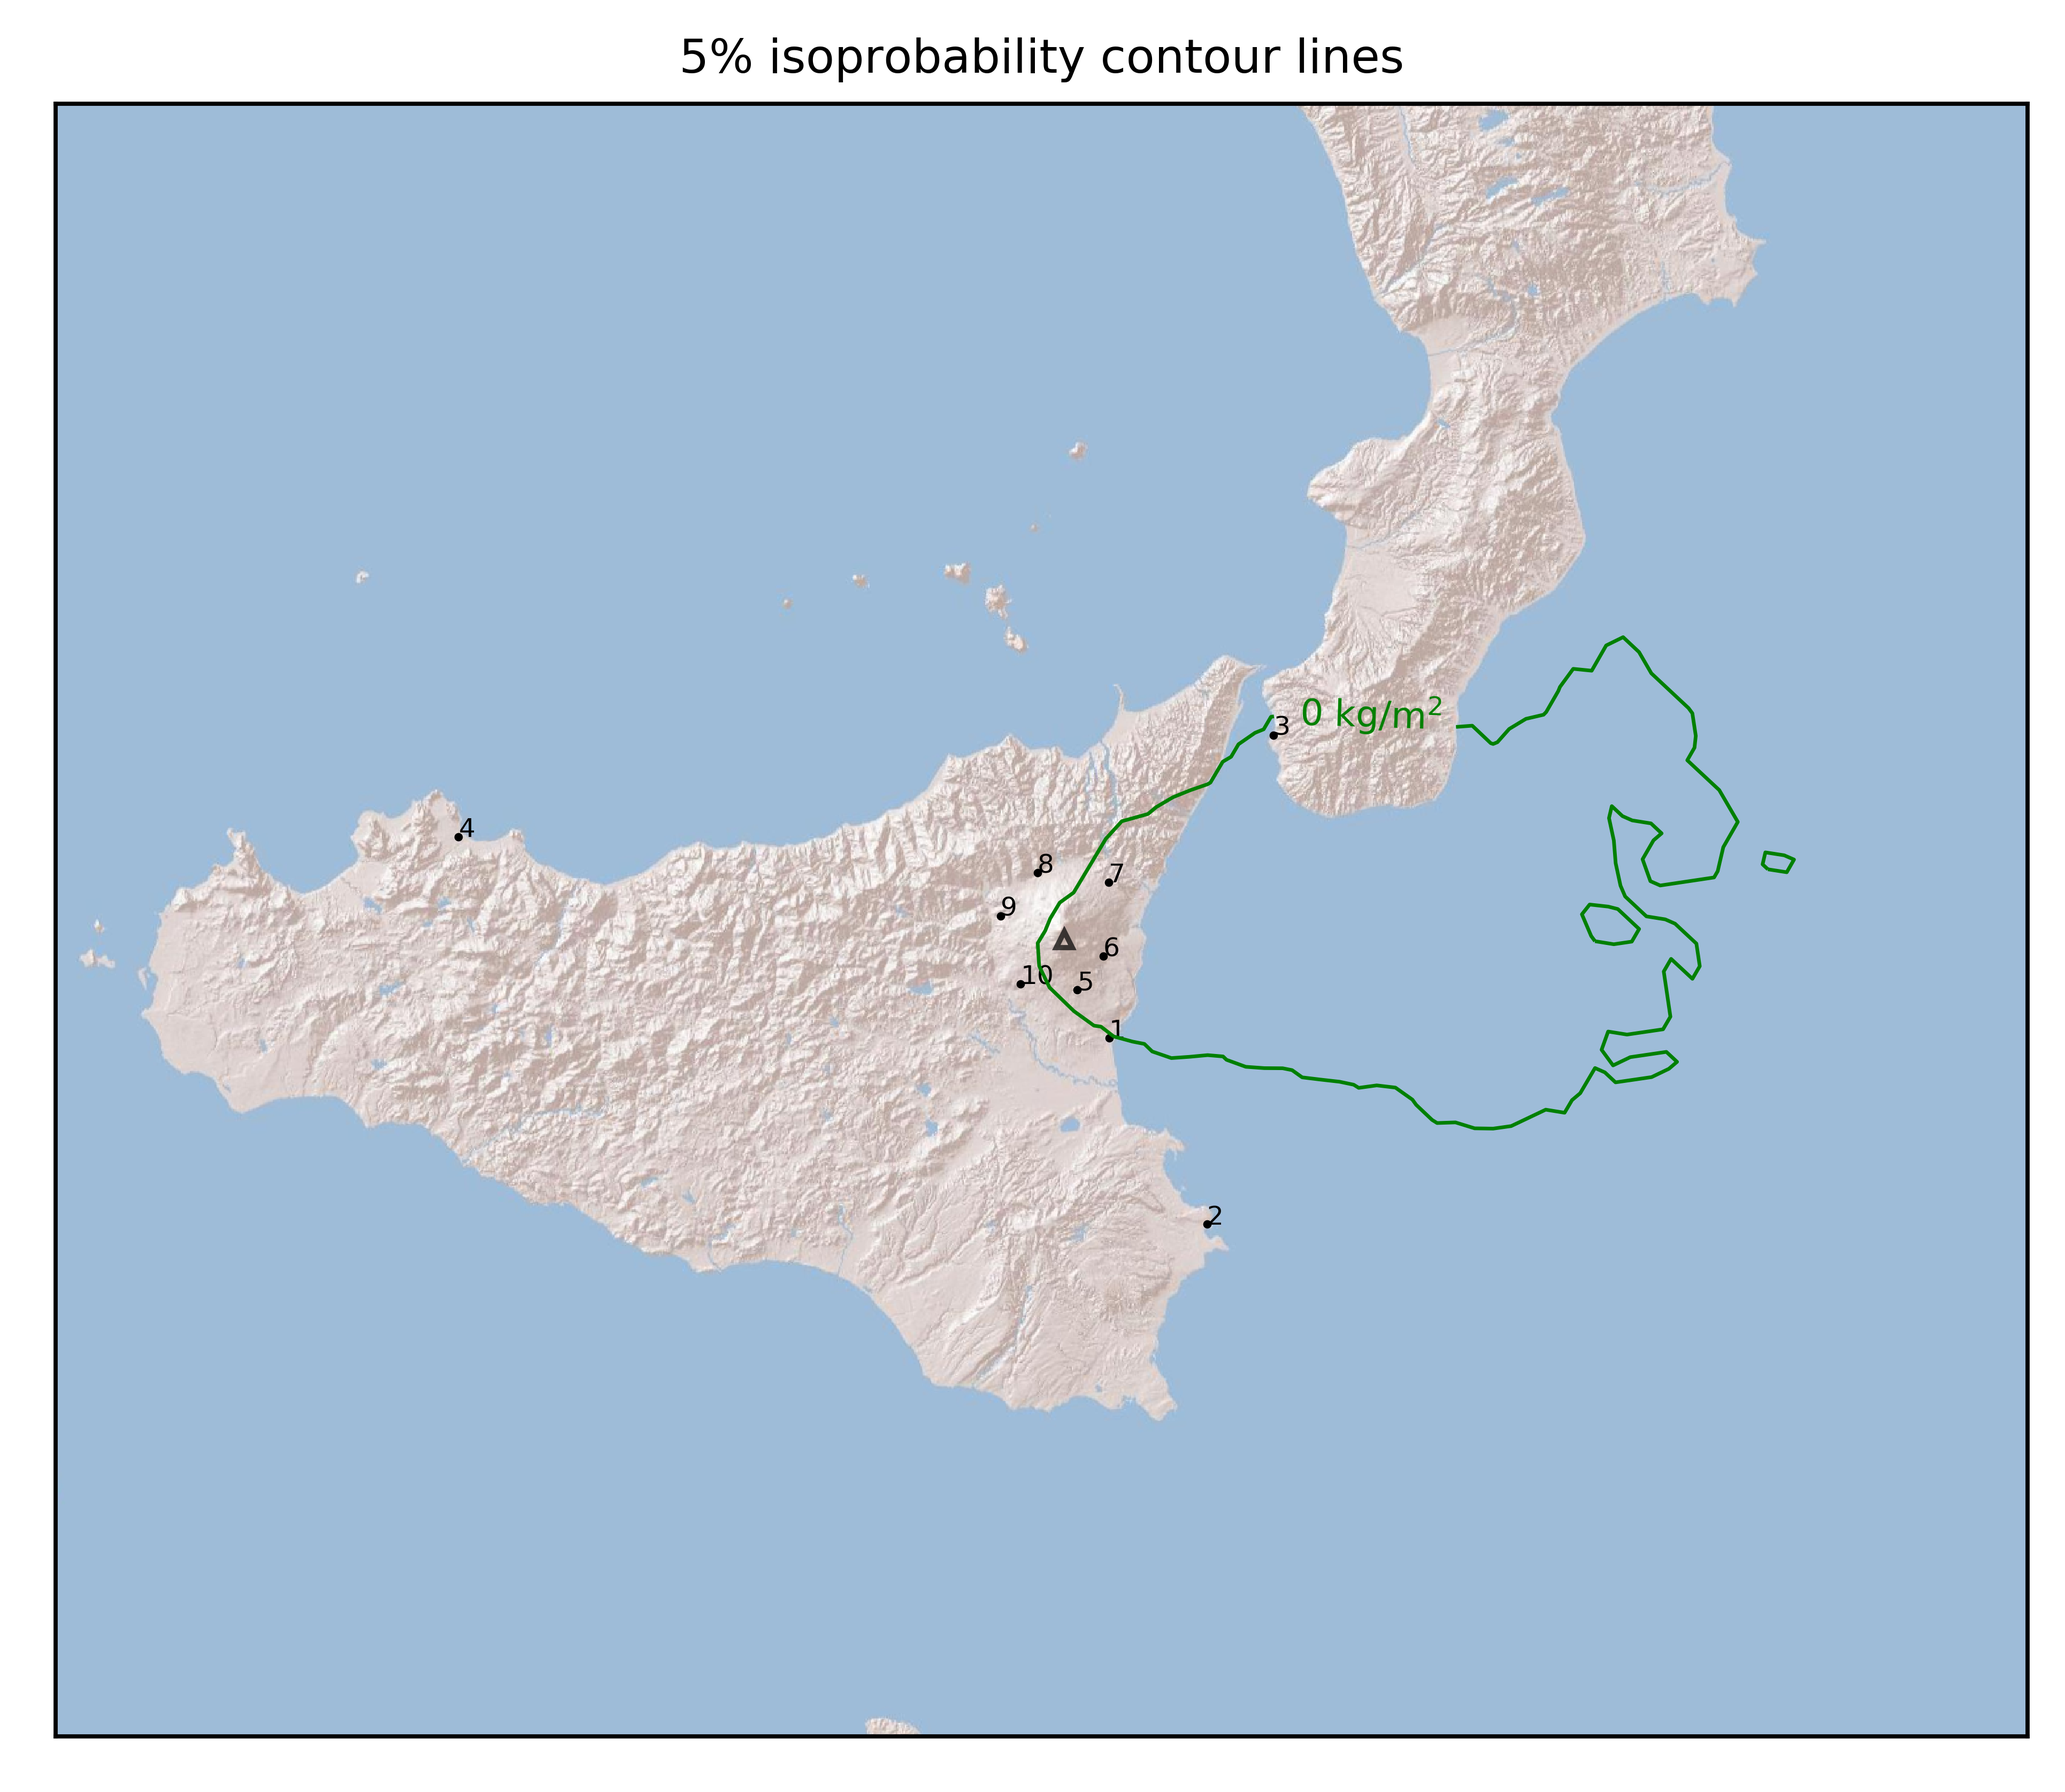
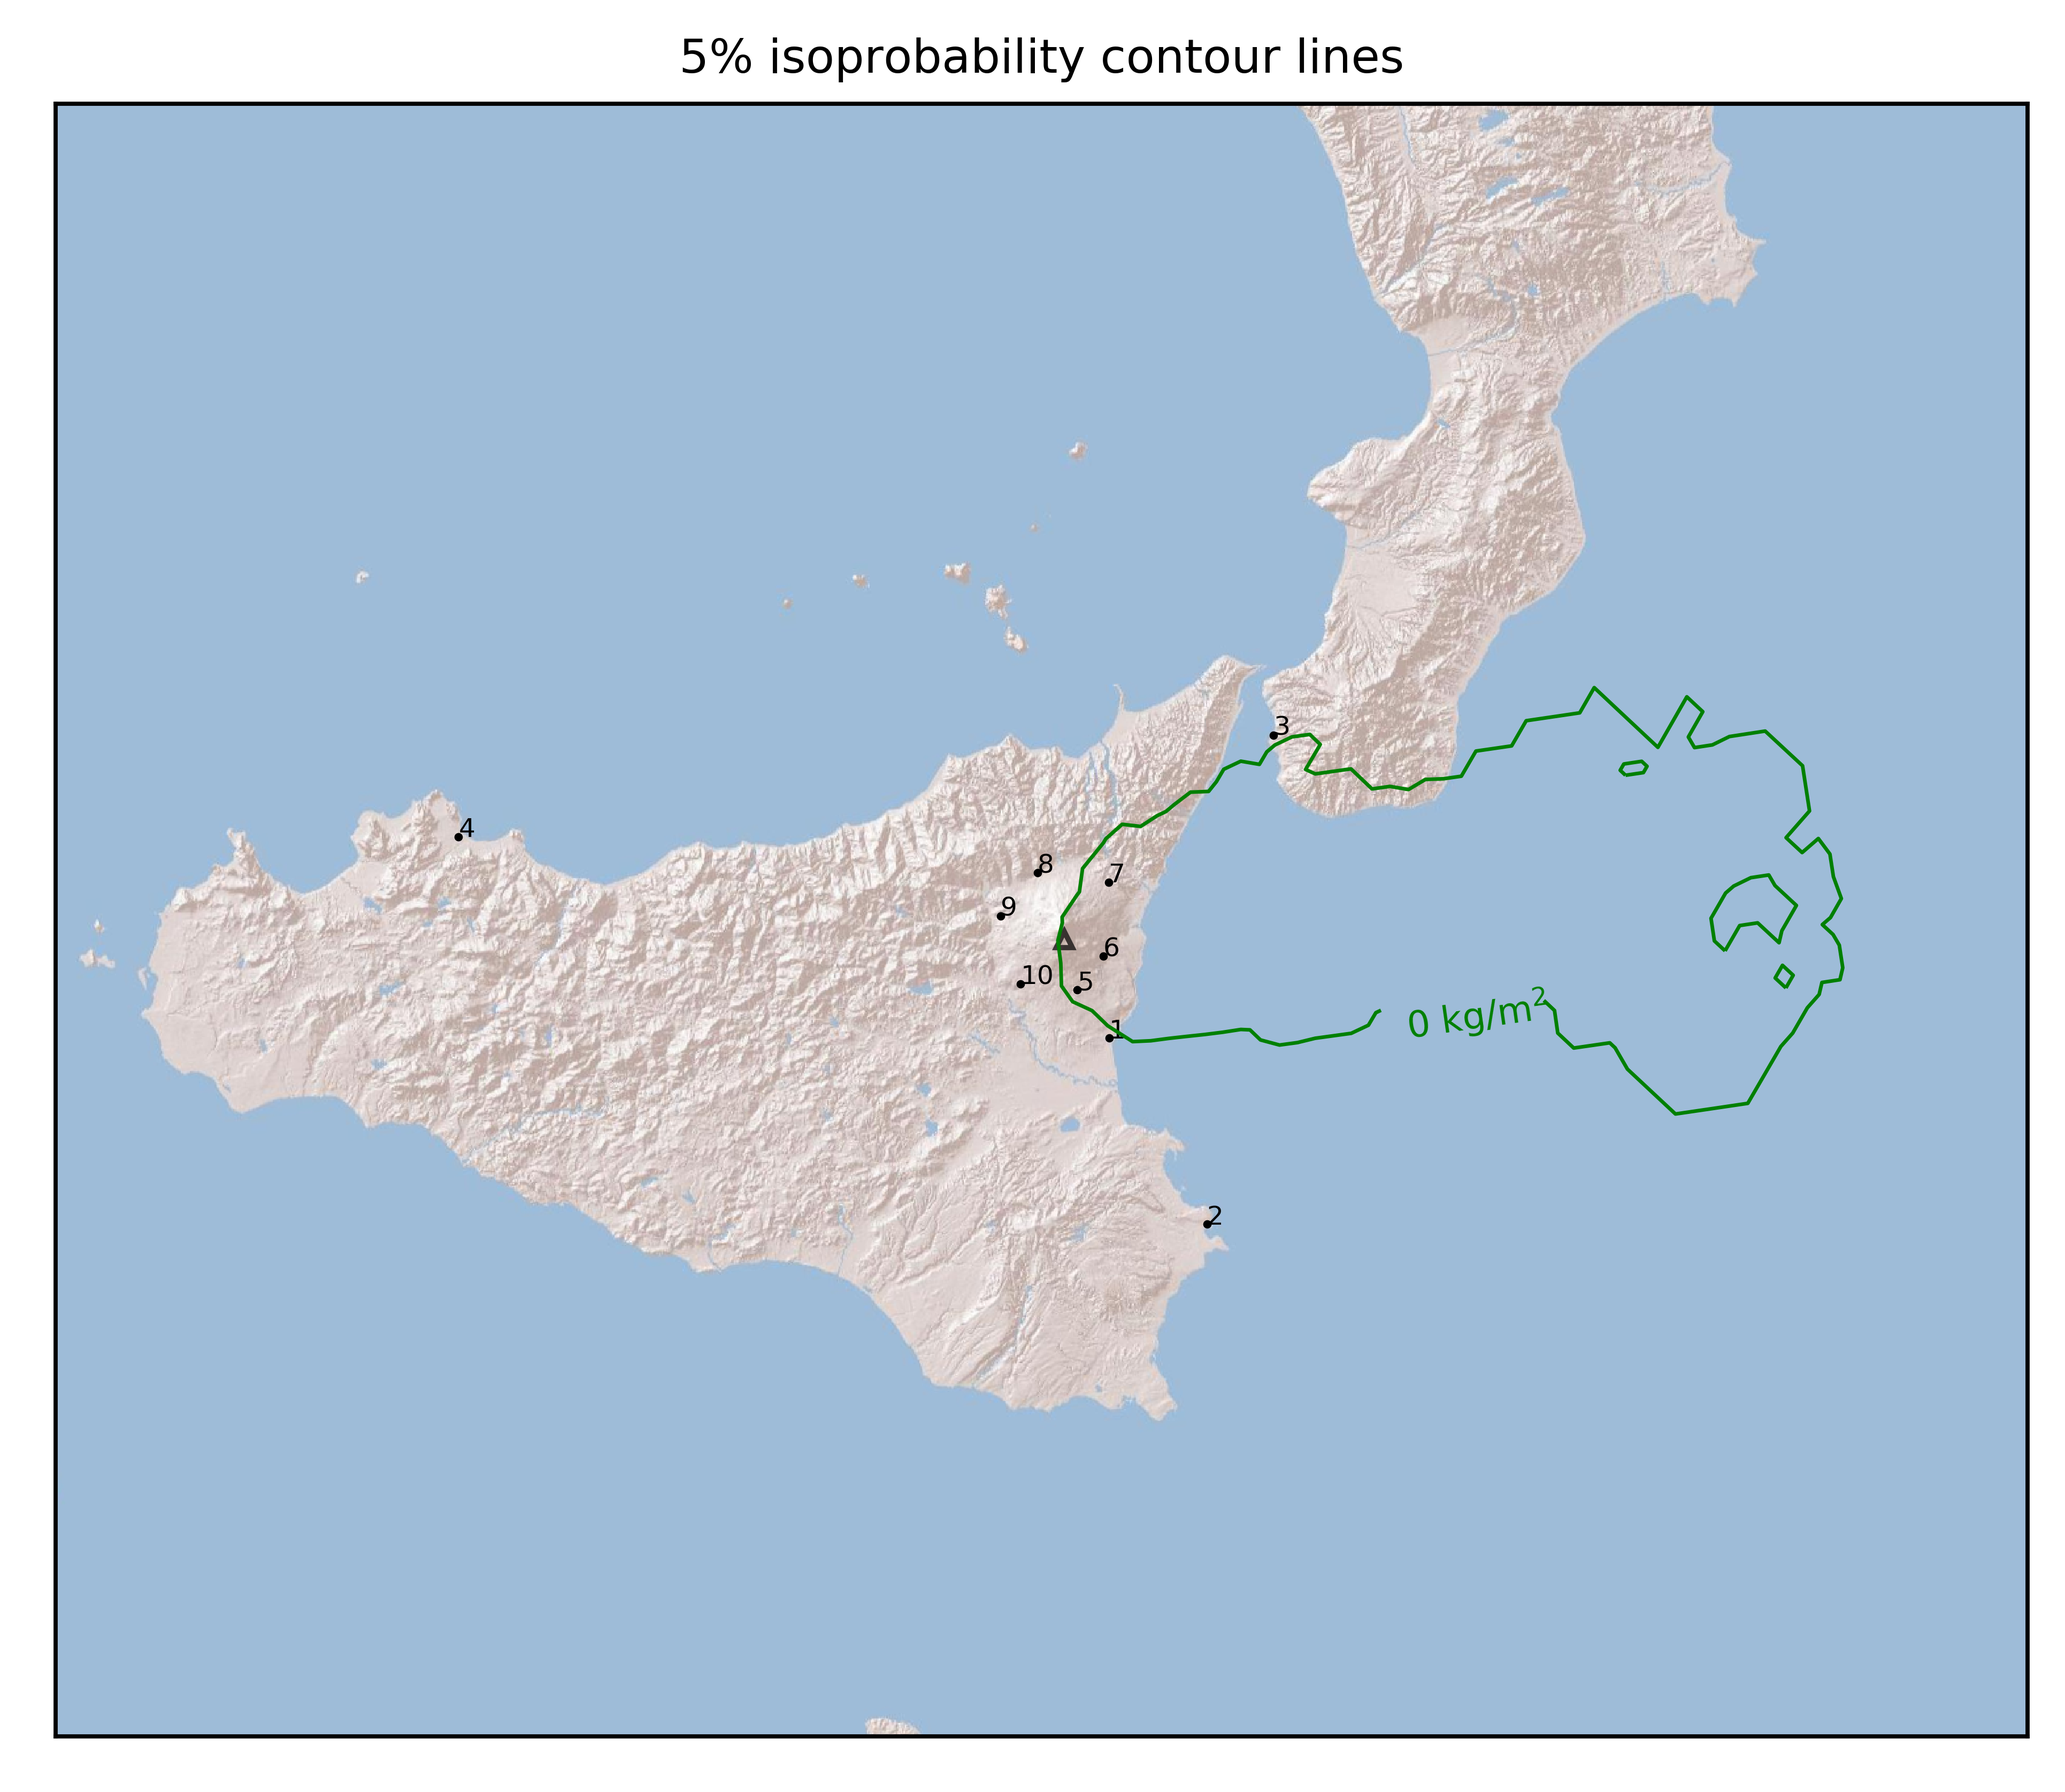
upload results

diff --git a/FORECAST_RESULTS/20210628_1441Z/README.md b/FORECAST_RESULTS/20210628_1441Z/README.md
@@ -12,6 +12,7 @@ Contents
 	* [Forecast at 2021-06-29 02:40 Z](#forecast-at-2021-06-29-0240-z)
 	* [Forecast at 2021-06-28 17:40 Z](#forecast-at-2021-06-28-1740-z)
 	* [Forecast at 2021-06-28 20:40 Z](#forecast-at-2021-06-28-2040-z)
+	* [Forecast at 2021-06-28 23:40 Z](#forecast-at-2021-06-28-2340-z)
 
 # Forecast products
 
@@ -290,6 +291,52 @@ Contents
 
 ### Atmosphere 2021-06-28 20:40 Z
   
-![](./figures/probability_air_2021_06_28_2040_scenario_1_conclev_1.png)  
+![](./figures/probability_air_2021_06_28_2040_scenario_1_conclev_1.png)
+## Forecast at 2021-06-28 23:40 Z
+  
+
+|Eruption start [Z]|Eruption end [Z]|Forecast time [Z]|Column height asl [m]|
+| :--- | :--- | :--- | :--- |
+|2021-06-28 14:40:00|2021-06-28 15:50:00|2021-06-28 23:40:00|None|
+  
+  
+
+|Percentile|MER [kg/s¹]|Mass in the air [kg]|Mass on the ground [kg]|
+| :--- | :--- | :--- | :--- |
+|5th|0.00e+00|9.51e-16|3.90e+05|
+|50th|0.00e+00|2.00e-02|4.03e+05|
+|95th|0.00e+00|4.16e+04|1.52e+07|
+  
+
+### Ground 2021-06-28 23:40 Z
+  
+![](./figures/probability_grd_2021_06_28_2340_scenario_1.png)  
+  
+  
+  
+  
+  
+  
+  
+  
+  
+
+|Location|Ground load [kg/m²] 5th perc|Ground load [kg/m²] 50th perc|Ground load [kg/m²] 95th perc|
+| :--- | :--- | :--- | :--- |
+|Catania AP (1)|0.00e+00|0.00e+00|2.19e-06|
+|Siracusa (2)|0.00e+00|0.00e+00|0.00e+00|
+|Reggio Calabria AP (3)|0.00e+00|0.00e+00|1.71e-06|
+|Palermo AP (4)|0.00e+00|0.00e+00|0.00e+00|
+|Nicolosi (5)|0.00e+00|0.00e+00|4.37e-05|
+|Zafferana (6)|7.39e-05|5.18e-04|9.70e-03|
+|Linguaglossa (7)|0.00e+00|1.40e-05|5.17e-04|
+|Randazzo (8)|0.00e+00|0.00e+00|0.00e+00|
+|Bronte (9)|0.00e+00|0.00e+00|0.00e+00|
+|Biancavilla (10)|0.00e+00|0.00e+00|0.00e+00|
+  
+
+### Atmosphere 2021-06-28 23:40 Z
+  
+![](./figures/probability_air_2021_06_28_2340_scenario_1_conclev_1.png)  
 Go to [Supplementary page](Supplementary_page.md)  
 Go to [Main directory](https://github.com/federicapardini/Real_time_ash_forecast)
